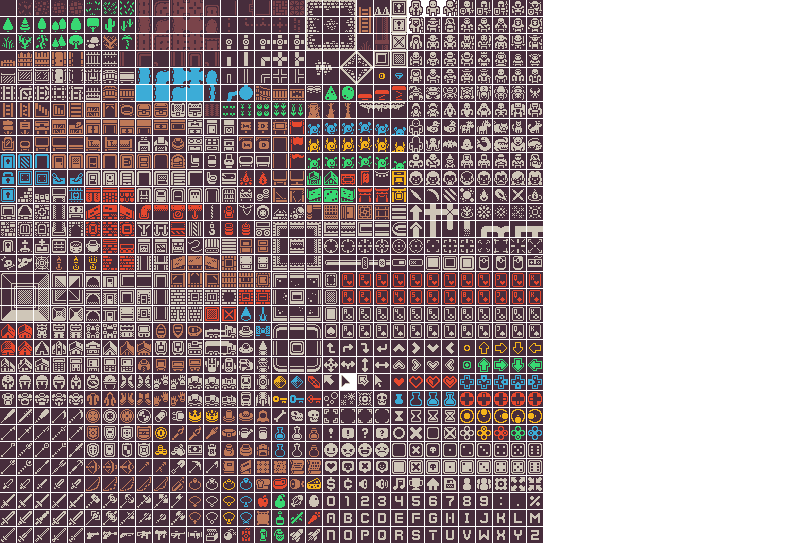
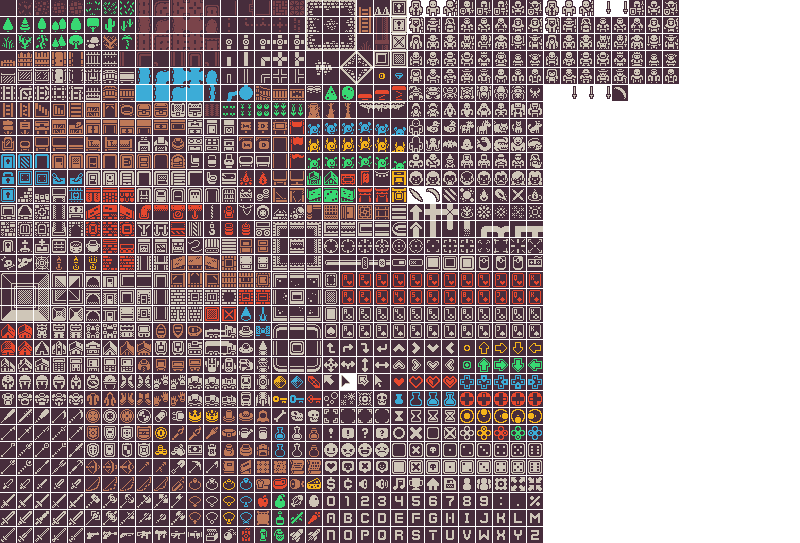
more anim adjustments

Changed region(s): [[0.6562, 0.0, 0.875, 0.2063], [0.5, 0.3241, 0.5625, 0.3831]]

diff --git a/docs/app.js b/docs/app.js
@@ -99,9 +99,9 @@ System.register("engine/renderer", ["engine/point"], function (exports_3, contex
                 };
                 Renderer.prototype.renderView = function (view) {
                     var _this = this;
-                    view.entities.forEach(function (e) {
+                    view.entities.filter(function (e) { return !!e; }).forEach(function (e) {
                         var images = e.getRenderImages();
-                        images.forEach(function (img) {
+                        images.filter(function (img) { return !!img; }).forEach(function (img) {
                             var position = e.position.plus(img.dimensions.div(2)).times(view.zoom); // where to draw the img on the canvas (center)
                             var pixelPos = new point_2.Point(_this.pixelNum(position.x, view.zoom), _this.pixelNum(position.y, view.zoom));
                             var rotation = 0 * Math.PI / 180;
@@ -436,6 +436,9 @@ System.register("engine/tileset", ["engine/point", "engine/entity", "engine/rend
                         }
                     }
                     this.time %= this.animation.duration;
+                    return this.getCurrentTileSource();
+                };
+                TileSetAnimator.prototype.getCurrentTileSource = function () {
                     return this.animation.frames[this.index][0];
                 };
                 return TileSetAnimator;
@@ -445,8 +448,10 @@ System.register("engine/tileset", ["engine/point", "engine/entity", "engine/rend
                 __extends(AnimatedTileEntity, _super);
                 function AnimatedTileEntity(animation, position) {
                     if (position === void 0) { position = new point_4.Point(0, 0); }
-                    var _this = _super.call(this, animation.frames[0][0], position) || this;
-                    _this.animator = new TileSetAnimator(animation);
+                    var _this = this;
+                    var animator = new TileSetAnimator(animation);
+                    _this = _super.call(this, new TileSetAnimator(animation).getCurrentTileSource(), position) || this;
+                    _this.animator = animator;
                     return _this;
                 }
                 AnimatedTileEntity.prototype.update = function (updateData) {
@@ -510,14 +515,16 @@ System.register("game/tiles", ["engine/point", "engine/tileset"], function (expo
                 Tile.DOOR_OPEN = Tile.get(9, 6);
                 // characters
                 Tile.GUY_1 = Tile.get(24, 0);
+                Tile.SWORD_1 = Tile.get(35, 0);
+                Tile.SWORD_2 = Tile.get(36, 0);
                 // weapons
                 Tile.CLUB = Tile.get(0, 24);
                 Tile.SWORD = Tile.get(0, 29);
                 // animations
-                Tile.SLASH = Tile.get(16, 19);
-                Tile.ARC = Tile.get(17, 19);
-                Tile.TRIPLE_SLASH = Tile.get(18, 19);
-                Tile.BUBBLES = Tile.get(19, 19);
+                Tile.SLASH = Tile.get(24, 11);
+                Tile.ARC = Tile.get(25, 11);
+                Tile.TRIPLE_SLASH = Tile.get(26, 11);
+                Tile.BUBBLES = Tile.get(27, 11);
                 // items
                 Tile.COIN = Tile.get(22, 4);
                 Tile.DIAMOND = Tile.get(23, 4);
@@ -579,9 +586,9 @@ System.register("engine/grid", [], function (exports_10, context_10) {
         }
     };
 });
-System.register("game/player", ["engine/tileset", "engine/point"], function (exports_11, context_11) {
+System.register("game/player", ["engine/tileset", "engine/point", "game/tiles"], function (exports_11, context_11) {
     "use strict";
-    var tileset_2, point_6, Player;
+    var tileset_2, point_6, tiles_1, Player;
     var __moduleName = context_11 && context_11.id;
     return {
         setters: [
@@ -590,6 +597,9 @@ System.register("game/player", ["engine/tileset", "engine/point"], function (exp
             },
             function (point_6_1) {
                 point_6 = point_6_1;
+            },
+            function (tiles_1_1) {
+                tiles_1 = tiles_1_1;
             }
         ],
         execute: function () {
@@ -598,6 +608,10 @@ System.register("game/player", ["engine/tileset", "engine/point"], function (exp
                 function Player() {
                     var _this = _super !== null && _super.apply(this, arguments) || this;
                     _this.speed = 1.2;
+                    _this.swordAnim = new tileset_2.TileSetAnimator(new tileset_2.TileSetAnimation([
+                        [tiles_1.Tile.SWORD_1, 500],
+                        [tiles_1.Tile.ARC, 100]
+                    ]));
                     return _this;
                 }
                 Player.prototype.update = function (updateData) {
@@ -623,6 +637,19 @@ System.register("game/player", ["engine/tileset", "engine/point"], function (exp
                     }
                     this.position = new point_6.Point(this.position.x + dx / updateData.elapsedTimeMillis * this.speed, this.position.y + dy / updateData.elapsedTimeMillis * this.speed);
                     // TODO: figure out how to structure components so that we can have a sword, shield, etc with animations
+                    this.swordAnim.update(updateData.elapsedTimeMillis);
+                };
+                Player.prototype.getRenderImages = function () {
+                    var mirrored = {
+                        rotation: this.transform.rotation,
+                        scale: this.transform.scale,
+                        mirrorX: false,
+                        mirrorY: this.transform.mirrorY
+                    };
+                    return [
+                        this.tileSource.toRenderImage(this.transform),
+                        this.swordAnim.getCurrentTileSource().toRenderImage(this.transform)
+                    ];
                 };
                 return Player;
             }(tileset_2.TileEntity));
@@ -632,7 +659,7 @@ System.register("game/player", ["engine/tileset", "engine/point"], function (exp
 });
 System.register("game/quest_game", ["engine/point", "engine/game", "engine/view", "game/tiles", "engine/grid", "engine/tileset", "game/player"], function (exports_12, context_12) {
     "use strict";
-    var point_7, game_1, view_1, tiles_1, grid_1, tileset_3, player_1, ZOOM, QuestGame;
+    var point_7, game_1, view_1, tiles_2, grid_1, tileset_3, player_1, ZOOM, QuestGame;
     var __moduleName = context_12 && context_12.id;
     return {
         setters: [
@@ -645,8 +672,8 @@ System.register("game/quest_game", ["engine/point", "engine/game", "engine/view"
             function (view_1_1) {
                 view_1 = view_1_1;
             },
-            function (tiles_1_1) {
-                tiles_1 = tiles_1_1;
+            function (tiles_2_1) {
+                tiles_2 = tiles_2_1;
             },
             function (grid_1_1) {
                 grid_1 = grid_1_1;
@@ -666,32 +693,32 @@ System.register("game/quest_game", ["engine/point", "engine/game", "engine/view"
                     var _this = _super.call(this) || this;
                     // todo: is there any reason to have this "grid"? is it redundant?
                     _this.grid = new grid_1.Grid();
-                    _this.player = new player_1.Player(tiles_1.Tile.GUY_1, new point_7.Point(2, 2).times(tiles_1.TILE_SIZE));
+                    _this.player = new player_1.Player(tiles_2.Tile.GUY_1, new point_7.Point(2, 2).times(tiles_2.TILE_SIZE));
                     _this.gameEntityView = new view_1.View();
                     _this.uiView = new view_1.View();
-                    _this.addTileEntityToGrid(1, 1, tiles_1.Tile.GRASS_1);
-                    _this.addTileEntityToGrid(2, 1, tiles_1.Tile.GRASS_3);
-                    _this.addTileEntityToGrid(1, 2, tiles_1.Tile.GRASS_1);
-                    _this.addTileEntityToGrid(1, 4, tiles_1.Tile.GRASS_1);
-                    _this.addTileEntityToGrid(2, 3, tiles_1.Tile.ROCKS);
-                    _this.addTileEntityToGrid(4, 4, tiles_1.Tile.SWORD);
+                    _this.addTileEntityToGrid(1, 1, tiles_2.Tile.GRASS_1);
+                    _this.addTileEntityToGrid(2, 1, tiles_2.Tile.GRASS_3);
+                    _this.addTileEntityToGrid(1, 2, tiles_2.Tile.GRASS_1);
+                    _this.addTileEntityToGrid(1, 4, tiles_2.Tile.GRASS_1);
+                    _this.addTileEntityToGrid(2, 3, tiles_2.Tile.ROCKS);
+                    _this.addTileEntityToGrid(4, 4, tiles_2.Tile.SWORD);
                     _this.grid.set(new point_7.Point(5, 6), new tileset_3.AnimatedTileEntity(new tileset_3.TileSetAnimation([
-                        [tiles_1.Tile.NUM_0, 1000],
-                        [tiles_1.Tile.NUM_1, 1000],
-                        [tiles_1.Tile.NUM_2, 1000],
-                        [tiles_1.Tile.NUM_3, 1000],
-                        [tiles_1.Tile.NUM_4, 1000],
-                        [tiles_1.Tile.NUM_5, 1000],
-                        [tiles_1.Tile.NUM_6, 1000],
-                        [tiles_1.Tile.NUM_7, 1000],
-                        [tiles_1.Tile.NUM_8, 1000],
-                        [tiles_1.Tile.NUM_9, 1000]
+                        [tiles_2.Tile.NUM_0, 1000],
+                        [tiles_2.Tile.NUM_1, 1000],
+                        [tiles_2.Tile.NUM_2, 1000],
+                        [tiles_2.Tile.NUM_3, 1000],
+                        [tiles_2.Tile.NUM_4, 1000],
+                        [tiles_2.Tile.NUM_5, 1000],
+                        [tiles_2.Tile.NUM_6, 1000],
+                        [tiles_2.Tile.NUM_7, 1000],
+                        [tiles_2.Tile.NUM_8, 1000],
+                        [tiles_2.Tile.NUM_9, 1000]
                     ])));
                     return _this;
                 }
                 QuestGame.prototype.addTileEntityToGrid = function (x, y, source) {
                     var pt = new point_7.Point(x, y);
-                    this.grid.set(pt, new tileset_3.TileEntity(source, pt.times(tiles_1.TILE_SIZE)));
+                    this.grid.set(pt, new tileset_3.TileEntity(source, pt.times(tiles_2.TILE_SIZE)));
                 };
                 // entities in the world space
                 QuestGame.prototype.getViews = function (updateViewsContext) {
@@ -716,19 +743,19 @@ System.register("game/quest_game", ["engine/point", "engine/game", "engine/view"
                 QuestGame.prototype.getUIEntities = function () {
                     var dimensions = new point_7.Point(25, 20); // tile dimensions
                     var result = [];
-                    result.push(new tileset_3.TileEntity(tiles_1.Tile.BORDER_1, new point_7.Point(0, 0)));
-                    result.push(new tileset_3.TileEntity(tiles_1.Tile.BORDER_3, new point_7.Point(dimensions.x - 1, 0).times(tiles_1.TILE_SIZE)));
-                    result.push(new tileset_3.TileEntity(tiles_1.Tile.BORDER_5, new point_7.Point(dimensions.x - 1, dimensions.y - 1).times(tiles_1.TILE_SIZE)));
-                    result.push(new tileset_3.TileEntity(tiles_1.Tile.BORDER_7, new point_7.Point(0, dimensions.y - 1).times(tiles_1.TILE_SIZE)));
+                    result.push(new tileset_3.TileEntity(tiles_2.Tile.BORDER_1, new point_7.Point(0, 0)));
+                    result.push(new tileset_3.TileEntity(tiles_2.Tile.BORDER_3, new point_7.Point(dimensions.x - 1, 0).times(tiles_2.TILE_SIZE)));
+                    result.push(new tileset_3.TileEntity(tiles_2.Tile.BORDER_5, new point_7.Point(dimensions.x - 1, dimensions.y - 1).times(tiles_2.TILE_SIZE)));
+                    result.push(new tileset_3.TileEntity(tiles_2.Tile.BORDER_7, new point_7.Point(0, dimensions.y - 1).times(tiles_2.TILE_SIZE)));
                     // horizontal lines
                     for (var i = 1; i < dimensions.x - 1; i++) {
-                        result.push(new tileset_3.TileEntity(tiles_1.Tile.BORDER_2, new point_7.Point(i, 0).times(tiles_1.TILE_SIZE)));
-                        result.push(new tileset_3.TileEntity(tiles_1.Tile.BORDER_6, new point_7.Point(i, dimensions.y - 1).times(tiles_1.TILE_SIZE)));
+                        result.push(new tileset_3.TileEntity(tiles_2.Tile.BORDER_2, new point_7.Point(i, 0).times(tiles_2.TILE_SIZE)));
+                        result.push(new tileset_3.TileEntity(tiles_2.Tile.BORDER_6, new point_7.Point(i, dimensions.y - 1).times(tiles_2.TILE_SIZE)));
                     }
                     // vertical lines
                     for (var j = 1; j < dimensions.y - 1; j++) {
-                        result.push(new tileset_3.TileEntity(tiles_1.Tile.BORDER_4, new point_7.Point(dimensions.x - 1, j).times(tiles_1.TILE_SIZE)));
-                        result.push(new tileset_3.TileEntity(tiles_1.Tile.BORDER_8, new point_7.Point(0, j).times(tiles_1.TILE_SIZE)));
+                        result.push(new tileset_3.TileEntity(tiles_2.Tile.BORDER_4, new point_7.Point(dimensions.x - 1, j).times(tiles_2.TILE_SIZE)));
+                        result.push(new tileset_3.TileEntity(tiles_2.Tile.BORDER_8, new point_7.Point(0, j).times(tiles_2.TILE_SIZE)));
                     }
                     return result;
                 };

diff --git a/src/game/player.ts b/src/game/player.ts
@@ -1,10 +1,17 @@
-import { TileEntity } from "../engine/tileset"
+import { TileEntity, TileTransform, TileSetAnimator, TileSetAnimation } from "../engine/tileset"
 import { UpdateData } from "../engine/engine"
 import { InputKey } from "../engine/input"
 import { Point } from "../engine/point"
+import { Tile } from "./tiles"
+import { RenderImage } from "../engine/renderer"
 
 export class Player extends TileEntity {
     readonly speed = 1.2
+
+    swordAnim: TileSetAnimator = new TileSetAnimator(new TileSetAnimation([
+        [Tile.SWORD_1, 500],
+        [Tile.ARC, 100]
+    ]))
 
     update(updateData: UpdateData) {
         let dx = 0
@@ -27,5 +34,20 @@ export class Player extends TileEntity {
         )
 
         // TODO: figure out how to structure components so that we can have a sword, shield, etc with animations
+        this.swordAnim.update(updateData.elapsedTimeMillis)
+    }
+
+    getRenderImages(): RenderImage[] {
+        const mirrored: TileTransform = {
+            rotation: this.transform.rotation,
+            scale: this.transform.scale,
+            mirrorX: false,
+            mirrorY: this.transform.mirrorY
+        }
+
+        return [
+            this.tileSource.toRenderImage(this.transform),
+            this.swordAnim.getCurrentTileSource().toRenderImage(this.transform)
+        ]
     }
 }

diff --git a/src/game/tiles.ts b/src/game/tiles.ts
@@ -40,16 +40,18 @@ export class Tile {
 
     // characters
     static GUY_1 = Tile.get(24, 0)
+    static SWORD_1 = Tile.get(35, 0)
+    static SWORD_2 = Tile.get(36, 0)
 
     // weapons
     static CLUB = Tile.get(0, 24)
     static SWORD = Tile.get(0, 29)
 
     // animations
-    static SLASH = Tile.get(16, 19)
-    static ARC = Tile.get(17, 19)
-    static TRIPLE_SLASH = Tile.get(18, 19)
-    static BUBBLES = Tile.get(19, 19)
+    static SLASH = Tile.get(24, 11)
+    static ARC = Tile.get(25, 11)
+    static TRIPLE_SLASH = Tile.get(26, 11)
+    static BUBBLES = Tile.get(27, 11)
 
     // items
     static COIN = Tile.get(22, 4)
@@ -69,7 +71,6 @@ export class Tile {
     static DPAD_RIGHT = Tile.get(29, 22)
     static DPAD_DOWN = Tile.get(30, 22)
     static DPAD_LEFT = Tile.get(31, 22)
-
     static NUM_0 = Tile.get(19, 29)
     static NUM_1 = Tile.get(20, 29)
     static NUM_2 = Tile.get(21, 29)

diff --git a/src/engine/tileset.ts b/src/engine/tileset.ts
@@ -115,6 +115,10 @@ export class TileSetAnimator {
             }
         }
         this.time %= this.animation.duration
+        return this.getCurrentTileSource()
+    }
+
+    getCurrentTileSource() {
         return this.animation.frames[this.index][0]
     }
 }
@@ -126,8 +130,9 @@ export class AnimatedTileEntity extends TileEntity {
         animation: TileSetAnimation,
         position: Point = new Point(0, 0)
     ) {
-        super(animation.frames[0][0], position)
-        this.animator = new TileSetAnimator(animation)
+        const animator = new TileSetAnimator(animation)
+        super(new TileSetAnimator(animation).getCurrentTileSource(), position)
+        this.animator = animator
     }
 
     update(updateData: UpdateData) {

diff --git a/src/engine/renderer.ts b/src/engine/renderer.ts
@@ -29,9 +29,9 @@ export class Renderer {
     }
 
     renderView(view: View) {
-        view.entities.forEach(e => {
+        view.entities.filter(e => !!e).forEach(e => {
             const images = e.getRenderImages()
-            images.forEach(img => {
+            images.filter(img => !!img).forEach(img => {
                 const position = e.position.plus(img.dimensions.div(2)).times(view.zoom)  // where to draw the img on the canvas (center)
                 const pixelPos = new Point(this.pixelNum(position.x, view.zoom), this.pixelNum(position.y, view.zoom))
                 const rotation = 0 * Math.PI/180
